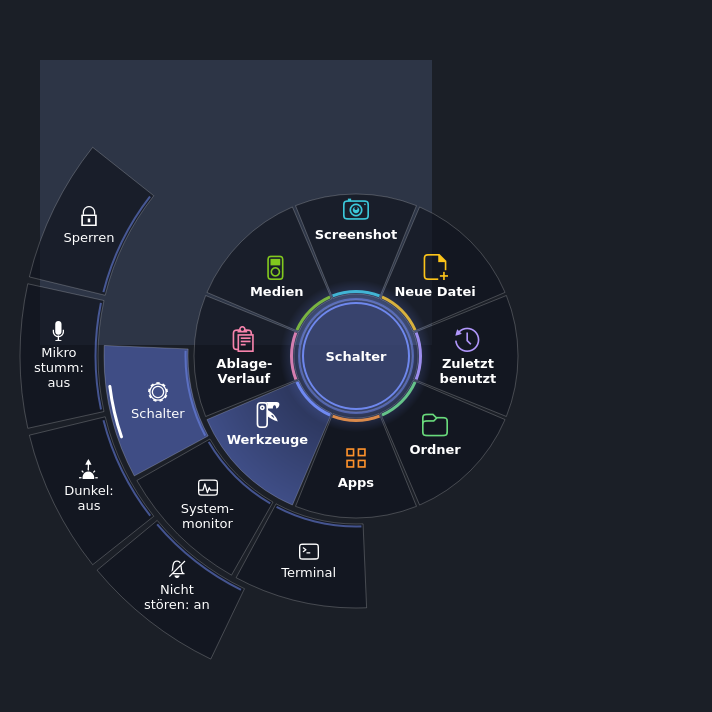
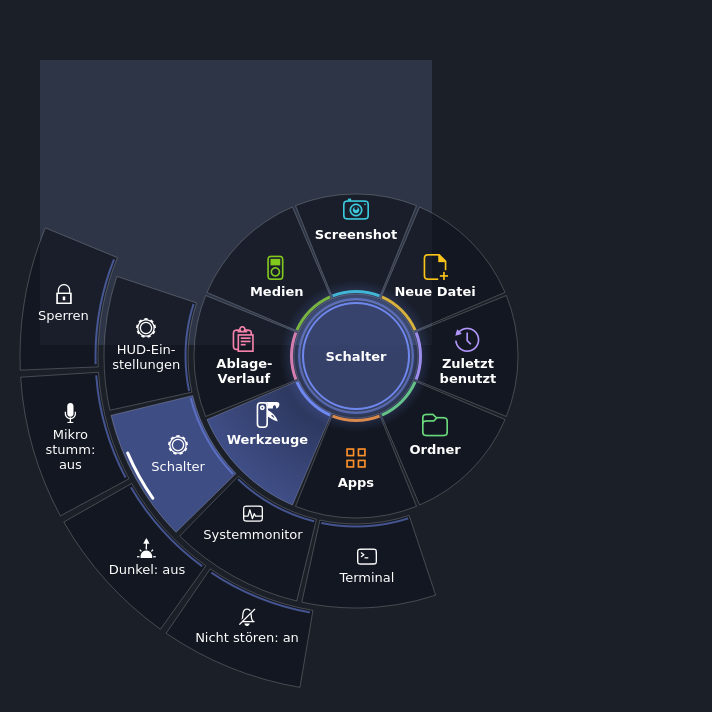
update project pages (dev_ws d5a10fde)

diff --git a/web_ux_robot/radial_mouse_hud/index.html b/web_ux_robot/radial_mouse_hud/index.html
@@ -4,7 +4,7 @@
 <meta charset="utf-8">
 <meta name="viewport" content="width=device-width, initial-scale=1">
 <title>Radial HUD</title>
-<meta name="description" content="Rundes Menü am Mauszeiger für den Linux-Desktop: Klick auf Mittel- oder Vor-Taste – Screenshot, neue Datei, Ordner, Apps, Ablage.">
+<meta name="description" content="Rundes Menü am Mauszeiger für den Linux-Desktop: Klick auf die Vor-Taste – Screenshot, neue Datei, Ordner, Apps, Ablage.">
 <style>
   :root {
     --bg: #eef1f6; --surface: #ffffff; --line: #d3d9e4;
@@ -74,10 +74,10 @@
     <div class="hero-text">
       <span class="tag">Linux-Desktop · X11 · GNOME</span>
       <h1>Radial HUD</h1>
-      <p class="lead">Ein rundes Menü direkt am Mauszeiger. <strong>Ein Klick auf die mittlere Maustaste oder die „Vor“-Seitentaste</strong> – schon liegen Screenshot, neue Datei, Ordner, Apps und Ablage-Verlauf einen Handgriff entfernt.</p>
-      <p>Beide Tasten gehören dem HUD: Einfügen per Mittelklick, Blender-Orbit, Autoscroll und „Vorwärts“ im Browser entfallen dafür.</p>
+      <p class="lead">Ein rundes Menü direkt am Mauszeiger. <strong>Ein Klick auf die „Vor“-Seitentaste</strong> – schon liegen Screenshot, neue Datei, Ordner, Apps und Ablage-Verlauf einen Handgriff entfernt.</p>
+      <p>Die Taste gehört dem HUD: „Vorwärts“ im Browser entfällt dafür. Welche Tasten, Bereiche, Apps und Ordner – das legt ein eigenes Einstellungs-Fenster fest.</p>
       <ul class="facts">
-        <li>8 feste Bereiche</li>
+        <li>8 Bereiche, Reihenfolge einstellbar</li>
         <li>Untermenüs fächern nach außen auf</li>
         <li>Startet nach jedem Neustart von selbst</li>
         <li>Ein Python-Skript, PyQt5</li>
@@ -90,7 +90,7 @@
   <section>
     <h2>So bedienst du es</h2>
     <ol class="steps">
-      <li><h3>Klicken</h3><p>Mittlere Maustaste oder „Vor“-Seitentaste (z. B. Logitech G402) drücken. Das HUD öffnet sich sofort um den Zeiger.</p></li>
+      <li><h3>Klicken</h3><p>„Vor“-Seitentaste (z. B. Logitech G402) drücken – oder eine andere Taste aus den Einstellungen. Das HUD öffnet sich sofort um den Zeiger.</p></li>
       <li><h3>Wählen</h3><p>Bereich anklicken oder mit gedrückter Taste hineinziehen. Sein Untermenü fächert nach außen auf.</p></li>
       <li><h3>Loslassen</h3><p>Loslassen auf einem Endpunkt führt ihn aus. Loslassen in der Mitte lässt das HUD offen – dann geht es per Klick weiter.</p></li>
       <li><h3>Schließen</h3><p>Klick in die Mitte, Klick daneben, Rechtsklick oder <code>Esc</code>.</p></li>
@@ -143,9 +143,9 @@
           <tr><td>12 Uhr</td><td>Screenshot</td><td>Aufnehmen, Text aus Bild auslesen, Farbpipette, Zuschneiden</td></tr>
           <tr><td>1:30</td><td>Neue Datei</td><td>Textdatei, leeres PNG, Notiz, Inhalt der Ablage</td></tr>
           <tr><td>3 Uhr</td><td>Zuletzt benutzt</td><td>letzte 6 Dateien</td></tr>
-          <tr><td>4:30</td><td>Ordner</td><td>Desktop, Downloads, Bilder, Dokumente, dev_ws, Projekte</td></tr>
-          <tr><td>6 Uhr</td><td>Apps</td><td>VS Code, Chrome, Dateien, Blender, FreeCAD, Discord (nur installierte, mit farbigem App-Icon)</td></tr>
-          <tr><td>7:30</td><td>Werkzeuge</td><td>Terminal, Systemmonitor, Schalter</td></tr>
+          <tr><td>4:30</td><td>Ordner</td><td>Desktop, Downloads, Bilder, Dokumente, dev_ws (einstellbar), Projekte</td></tr>
+          <tr><td>6 Uhr</td><td>Apps</td><td>VS Code, Chrome, Dateien, Blender, FreeCAD, Discord (einstellbar, nur installierte, mit farbigem App-Icon)</td></tr>
+          <tr><td>7:30</td><td>Werkzeuge</td><td>Terminal, Systemmonitor, Schalter, HUD-Einstellungen</td></tr>
           <tr><td>9 Uhr</td><td>Ablage-Verlauf</td><td>letzte 6 kopierte Texte</td></tr>
           <tr><td>10:30</td><td>Medien</td><td>Wiedergabe steuern (nur wenn etwas läuft)</td></tr>
         </tbody>
@@ -179,9 +179,28 @@
   </section>
 
   <section>
+    <div>
+      <h2>Einstellungen</h2>
+      <p>Ein eigenes Fenster – im App-Menü als „Radial HUD – Einstellungen“ oder im HUD unter Werkzeuge. Links die Themen, in der Mitte die Einträge zum Sortieren, rechts der echte Ring mit den neuen Werten. <strong>Speichern</strong> wirkt sofort, ohne Neuanmeldung; <strong>Abbrechen</strong> verwirft.</p>
+    </div>
+    <div class="grid wide">
+      <figure>
+        <img src="img/einstellungen-apps.png" width="1240" height="760" loading="lazy" alt="Einstellungs-Fenster, Thema Apps: links die Themen Tasten, Bereiche, Apps, Ordner, Aussehen; in der Mitte die Apps VS Code bis Discord mit App-ID; rechts der Ring mit geöffnetem Bereich Apps">
+        <figcaption><span class="pos">Apps</span><span>Ziehen zum Sortieren, hinzufügen aus der Liste der installierten Apps, Name per Doppelklick. Neue Einträge sind mit „neu“ markiert.</span></figcaption>
+      </figure>
+      <figure>
+        <img src="img/einstellungen-aussehen.png" width="1240" height="760" loading="lazy" alt="Einstellungs-Fenster, Thema Aussehen: Regler für Größe und Glas-Deckkraft, darunter je Bereich ein Farbfeld mit Hex-Wert; rechts der Ring">
+        <figcaption><span class="pos">Aussehen</span><span>Größe 100–130 %, Glas-Deckkraft, Farbe je Bereich. Zu helle Farben und Rot lehnt das Fenster ab – weiße Schrift bleibt lesbar.</span></figcaption>
+      </figure>
+    </div>
+    <p>Außerdem: <strong>Tasten</strong> (Vor-Taste, Zurück-Taste, Mitteltaste), <strong>Bereiche</strong> (Reihenfolge, ausblenden), <strong>Ordner</strong> (wie Apps). Gespeichert wird in <code>~/.config/radial_hud/config.json</code>; fehlt die Datei oder ist sie kaputt, gelten die Standardwerte.</p>
+  </section>
+
+  <section>
     <h2>Starten</h2>
 <pre><code>python3 radial_hud.py          # Dienst im Vordergrund
-./install_autostart.sh         # bei jeder Anmeldung starten
+./install_autostart.sh         # bei jeder Anmeldung starten + Einstellungen ins App-Menü
+python3 hud_settings.py        # Einstellungen öffnen
 python3 radial_hud.py --demo   # HUD einmal öffnen, ohne Maustasten-Grab</code></pre>
     <p><strong>Autostart:</strong> <code>./install_autostart.sh</code> legt einmalig <code>~/.config/autostart/radial-hud.desktop</code> an. Danach startet GNOME das HUD bei jeder Anmeldung – auch nach einem Neustart von Ubuntu. Läuft es? <code>pgrep -af radial_hud.py</code>. Abschalten: <code>rm ~/.config/autostart/radial-hud.desktop</code>.</p>
     <p><strong>Voraussetzungen:</strong> X11-Sitzung mit Compositor (GNOME), <code>python3-pyqt5</code>, <code>python3-xlib</code>. Optional je Funktion: <code>tesseract-ocr</code> (Text aus Bild), <code>pulseaudio-utils</code> (Lautstärke, Mikro), <code>libnotify-bin</code> (Meldungen). Fehlt ein Programm, zeigt der Eintrag „nicht verfügbar“ und nennt den Installationsbefehl.</p>
@@ -190,18 +209,19 @@ python3 radial_hud.py --demo   # HUD einmal öffnen, ohne Maustasten-Grab</code>
   <section>
     <h2>Wie es funktioniert</h2>
     <ul class="plain">
-      <li><strong>Eigene Tasten:</strong> ein passiver Grab auf Mittel- und Vor-Taste öffnet das HUD beim Drücken; Apps bekommen diese Klicks nicht.</li>
+      <li><strong>Eigene Tasten:</strong> ein passiver Grab auf die gewählten Tasten (Standard: Vor-Taste) öffnet das HUD beim Drücken; Apps bekommen diese Klicks nicht.</li>
       <li><strong>Beschriftung passt immer:</strong> je Segment wird die breiteste Textbox gesucht, die samt Icon hineinpasst – erst Umbruch, dann in der Mitte gekürzt.</li>
       <li><strong>Nichts geht verloren:</strong> neue Dateien überschreiben nie etwas (<code>Name (2).txt</code>), der Ablage-Verlauf bleibt nur im Speicher, Passwort-Manager werden ausgelassen.</li>
       <li><strong>Ruhiger Look:</strong> jeder Bereich hat eine eigene Farbe; Leuchtsaum am gewählten Endpunkt, atmender Mittelkreis, Lichtstreif und weiches Schließen bleiben dezent.</li>
-      <li><strong>Einstellbar:</strong> Tasten (<code>BUTTONS</code>), Ringgrößen, Farben und Menü oben in <code>radial_hud.py</code>.</li>
+      <li><strong>Einstellbar ohne Neuanmeldung:</strong> das Fenster speichert atomar nach <code>config.json</code>, der Dienst beobachtet den Ordner und übernimmt die Werte sofort; ungültige Werte fallen einzeln auf den Standard zurück.</li>
     </ul>
   </section>
 
   <section>
     <h2>Prüfen</h2>
 <pre><code>python3 -m pytest -q test_radial_hud.py          # Treffer, Labels, Kontrast ≥ 4,5 : 1, Schalter
-python3 radial_hud.py --snapshot /tmp/hud        # Bildbogen + je Bereich ein Bild (hell, dunkel)</code></pre>
+python3 radial_hud.py --snapshot /tmp/hud        # Bildbogen + je Bereich ein Bild (hell, dunkel)
+python3 hud_settings.py --snapshot /tmp/set      # Einstellungs-Fenster je Thema</code></pre>
     <p>Alle Bilder auf dieser Seite stammen aus <code>--snapshot</code> bzw. den offscreen gerenderten Editoren – Beispieldateien, Projektordner und Ablage-Texte sind Platzhalter.</p>
   </section>
 
